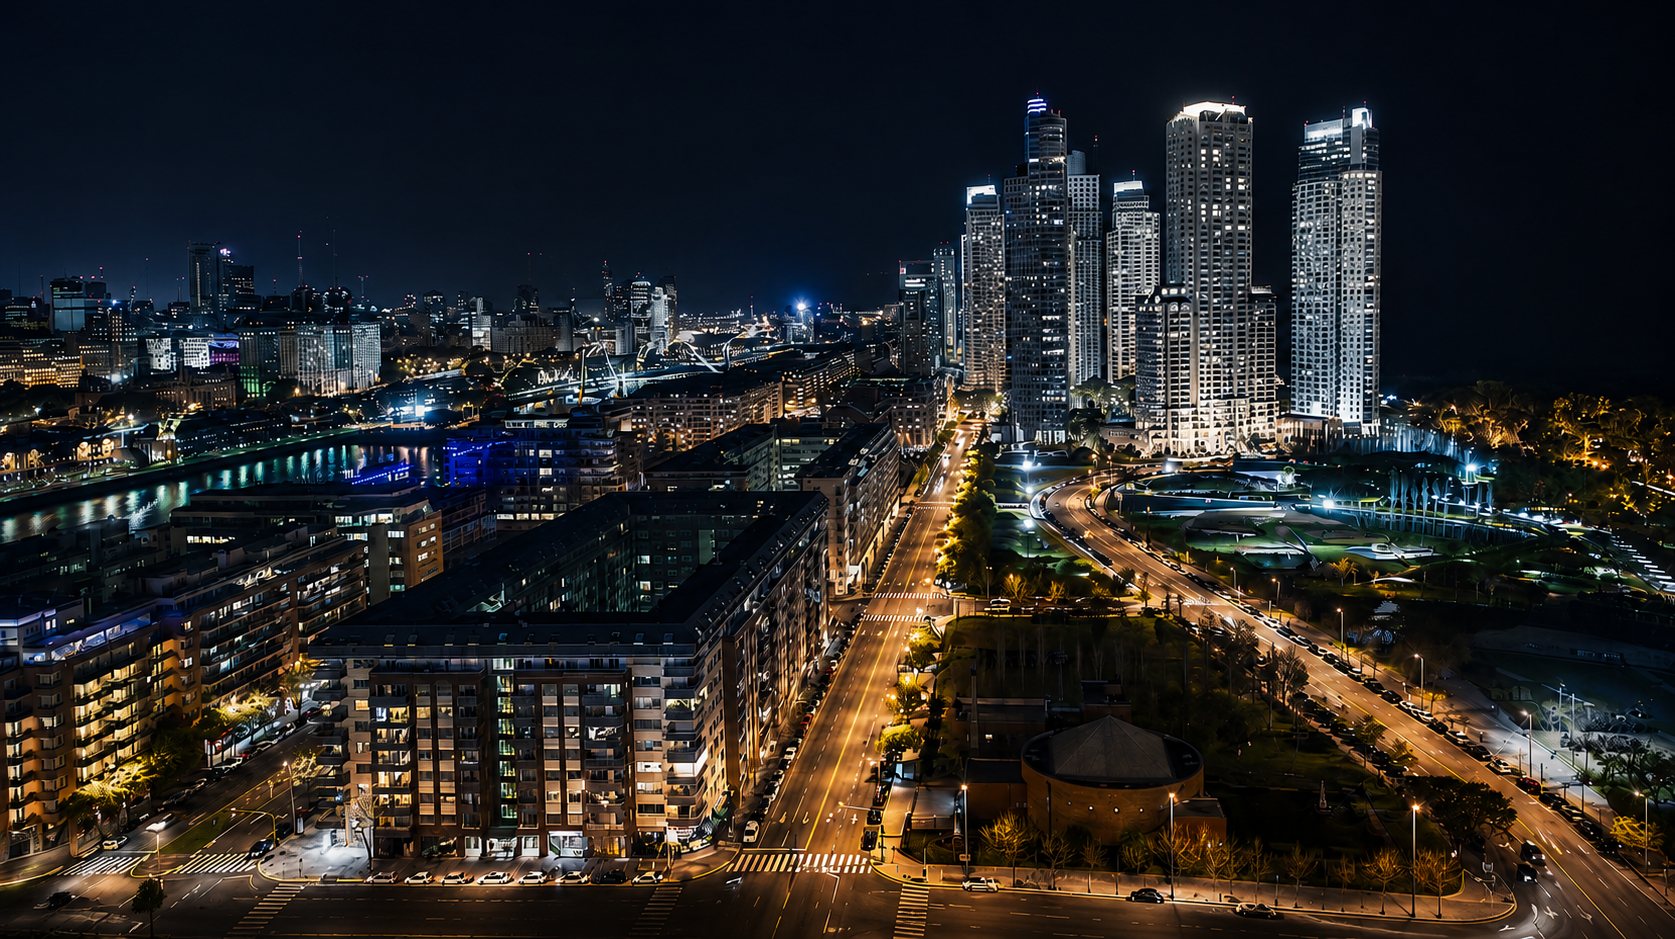
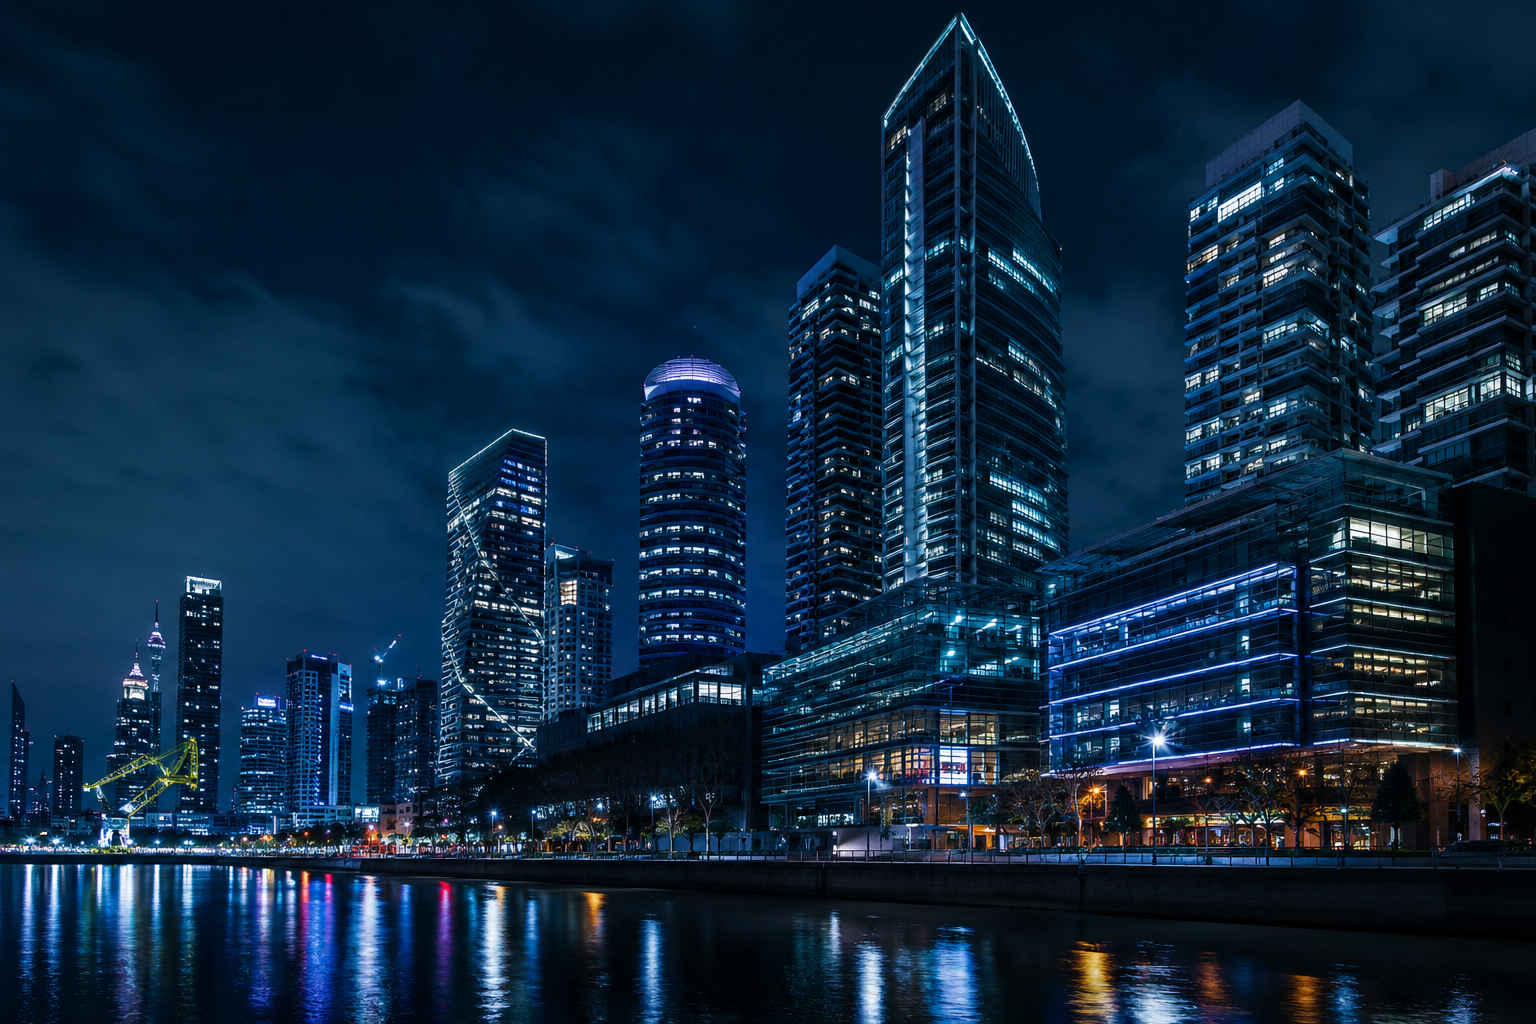
desactivo temporalmente sistema pdf

diff --git a/remitos/urls.py b/remitos/urls.py
@@ -8,7 +8,7 @@ urlpatterns = [
     path('remitos/<int:remito_id>/cargar-dias/', views.remito_cargar_dias, name='remito_cargar_dias'),
     path('remitos/<int:pk>/', views.remito_detalle, name='remitoDetalle'),
     path('empresa/<int:empresa_id>/remitos/', views.remitos_por_empresa, name='remitos_por_empresa'),
-    path('remitos/<int:pk>/descargar/', views.descargar_remito_pdf, name='descargar_remito_pdf'),
+    #path('remitos/<int:pk>/descargar/', views.descargar_remito_pdf, name='descargar_remito_pdf'),
 
 
 ]

diff --git a/autoremit/settings.py b/autoremit/settings.py
@@ -27,8 +27,11 @@ SECRET_KEY = 'django-insecure-@@r8#4%mx+lzyfc02+6*vxll#1#37_0+$26p3&+jl2hkno6y#q
 # SECURITY WARNING: don't run with debug turned on in production!
 DEBUG = True
 
-ALLOWED_HOSTS = ['autoremit.onrender.com']
-
+ALLOWED_HOSTS = [
+    'autoremit.onrender.com',
+    '127.0.0.1',
+    'localhost'
+]
 # Application definition
 
 INSTALLED_APPS = [
